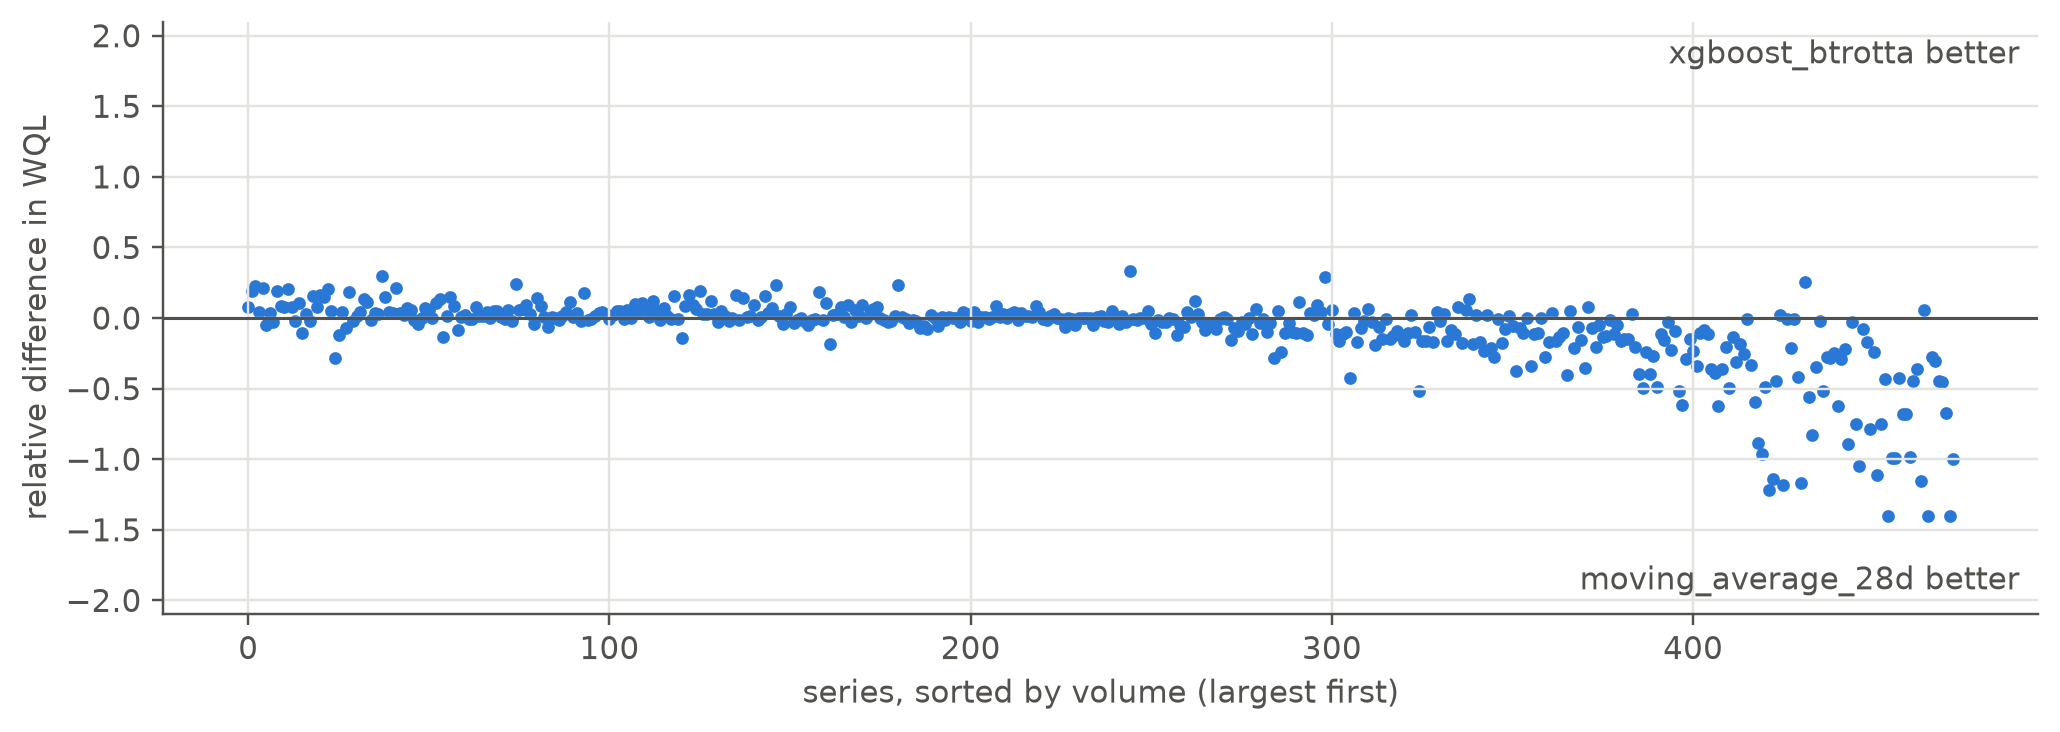
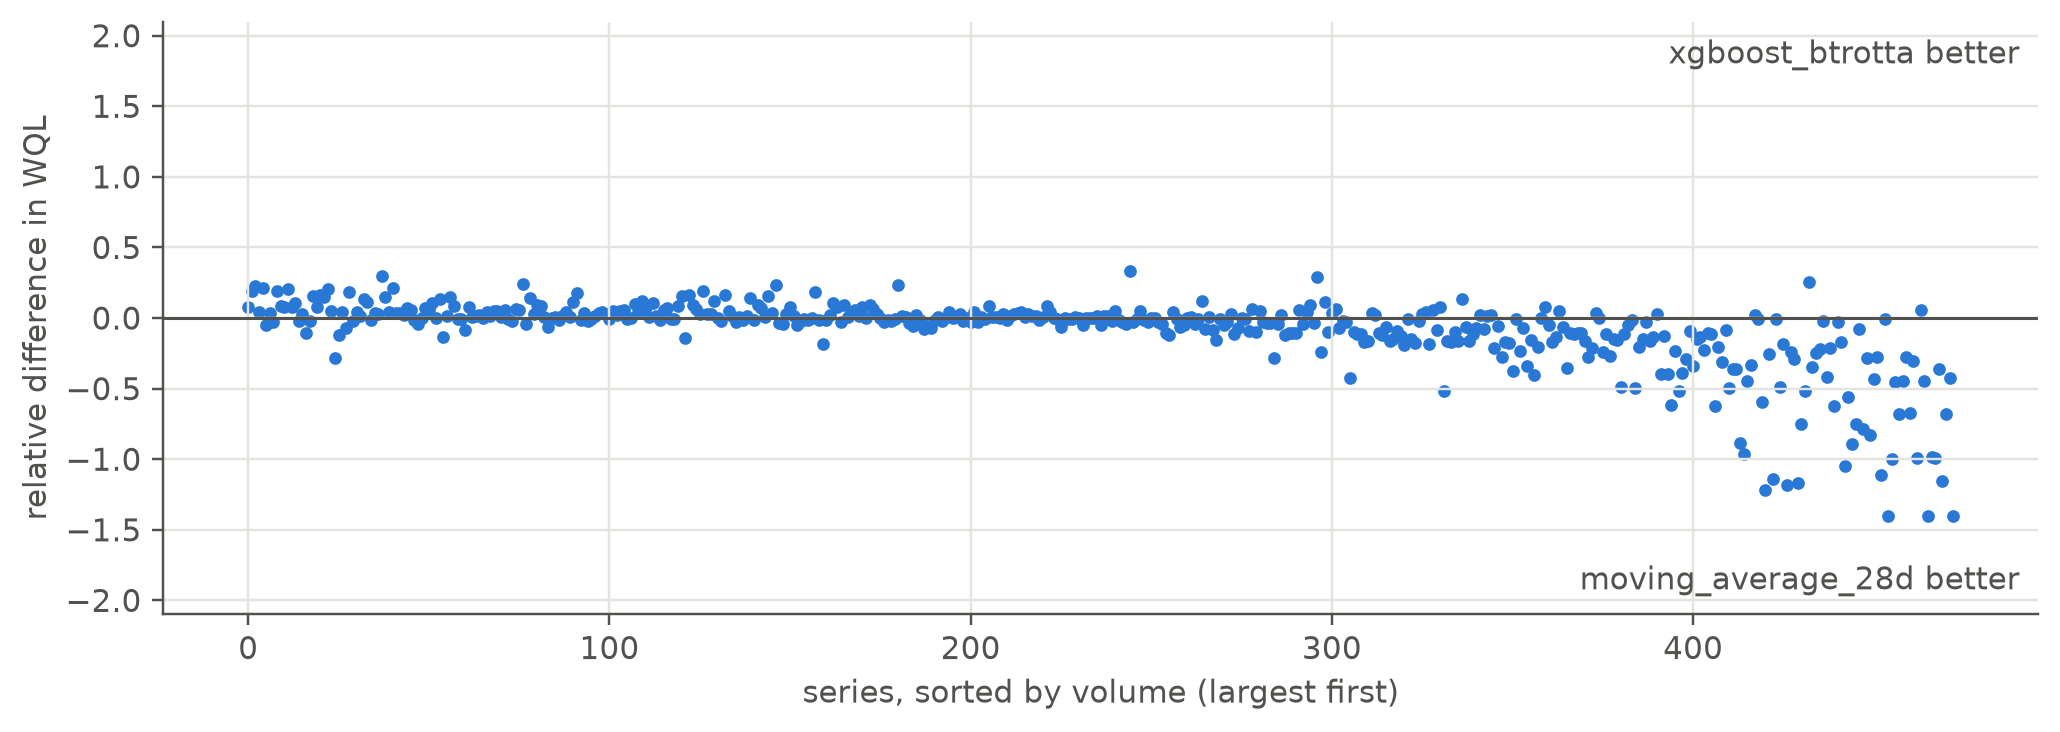
Built site for gh-pages

diff --git a/index.html b/index.html
@@ -223,7 +223,7 @@ window.Quarto = {
 <p>The order matters, as it is a linear progression through experiments, observations, and interpretations.</p>
 <div id="listing-series" class="quarto-listing quarto-listing-container-default">
 <div class="list quarto-listing-default">
-<div class="quarto-post image-right" data-index="0" data-categories="TTUlMkNYR0Jvb3N0JTJDZXZhbHVhdGlvbg==" data-listing-date-sort="1793487600000" data-listing-file-modified-sort="1795167790375" data-listing-date-modified-sort="NaN" data-listing-reading-time-sort="12" data-listing-word-count-sort="2317">
+<div class="quarto-post image-right" data-index="0" data-categories="TTUlMkNYR0Jvb3N0JTJDZXZhbHVhdGlvbg==" data-listing-date-sort="1793487600000" data-listing-file-modified-sort="1795169015689" data-listing-date-modified-sort="NaN" data-listing-reading-time-sort="12" data-listing-word-count-sort="2317">
 <div class="body">
 <h3 class="no-anchor listing-title">
 <a href="./posts/01-xgboost/index.html" class="no-external">The baseline: XGBoost</a>

diff --git a/posts/02-chronos2/index.html b/posts/02-chronos2/index.html
@@ -915,7 +915,7 @@ Figure&nbsp;7: Test window, by horizon bucket.
 <div id="fig-final-examples" class="quarto-float quarto-figure quarto-figure-center anchored">
 <figure class="quarto-float quarto-float-fig figure">
 <div aria-describedby="fig-final-examples-caption-0ceaefa1-69ba-4598-a22c-09a6ac19f8ca">
-<img src="index_files/figure-html/fig-final-examples-output-1.png" width="1209" height="1089" class="figure-img">
+<img src="index_files/figure-html/fig-final-examples-output-1.png" width="1204" height="1089" class="figure-img">
 </div>
 <figcaption class="quarto-float-caption-bottom quarto-float-caption quarto-float-fig" id="fig-final-examples-caption-0ceaefa1-69ba-4598-a22c-09a6ac19f8ca">
 Figure&nbsp;8: Four test-window series at the 98th, 75th, 50th and 25th percentile of volume. Bands: the final model’s quantiles. Dots: what sold.
